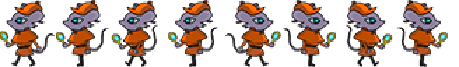
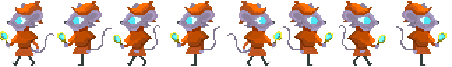
Added in new Mouse and Cat textures

diff --git a/scripts/initialization_scene.js b/scripts/initialization_scene.js
@@ -22,18 +22,17 @@ class InitializationScene extends Phaser.Scene{
             this.scene.start('ExampleScene');
         });
 
+        //Load up the basic textures needed
         this.load.image('sewer_background', '../images/environment_background concept (tileable).png');
-        //this.load.image('ground', '../images/platform.png');
         this.load.image('ground', '../images/platform_tileable_middle_10px.png');
-        //this.load.image('ladder', '../images/ladder.png');
         this.load.image('ladder', '../images/manhole_tunnel_ladder.png');
 		this.load.image('breaker', '../images/background.jpg');
 		this.load.image('cat_sematary','../images/linku.png');
         this.load.image('MarioSprite', '../images/MarioSprite.png');
 
-        //this.load.spritesheet('mouse', '../images/dude.png', { frameWidth: 32, frameHeight: 48 });
+        //Load in the spritesheets
         this.load.spritesheet('mouse', '../images/MouseWalkFlippedSmall.png', {frameWidth: 56, frameHeight: 67});
-        this.load.spritesheet('stupid_cat','../images/dude.png',{ frameWidth: 32, frameHeight: 48 });
+        this.load.spritesheet('stupid_cat','../images/cat walking pixel_w37h54.png',{ frameWidth: 37, frameHeight: 54 });
     }
 
 }

diff --git a/scripts/animations.js b/scripts/animations.js
@@ -37,16 +37,16 @@ function animations(scene) {
     scene.anims.create(config);
 
     config = {
-        key: 'left',
-        frames: scene.anims.generateFrameNumbers('cat', {start: 0, end: 3}),
+        key: 'left_stupid_cat',
+        frames: scene.anims.generateFrameNumbers('stupid_cat', {start: 0, end: 3}),
         frameRate: 10,
         repeat: -1
     };
     scene.anims.create(config);
 
     config = {
-        key: 'right',
-        frames: scene.anims.generateFrameNumbers('cat', {start: 5, end: 8}),
+        key: 'right_stupid_cat',
+        frames: scene.anims.generateFrameNumbers('stupid_cat', {start: 4, end: 7}),
         frameRate: 10,
         repeat: -1
     };

diff --git a/scripts/StupidCat.js b/scripts/StupidCat.js
@@ -8,10 +8,10 @@ class StupidCat extends Cat{
     move(){
         if(this.left){
             this.body.velocity.x=-80;
-            this.anims.play('left', true);
+            this.anims.play('left_stupid_cat', true);
         }else{
             this.body.velocity.x=80;
-            this.anims.play('right', true);
+            this.anims.play('right_stupid_cat', true);
         }
     }
 
